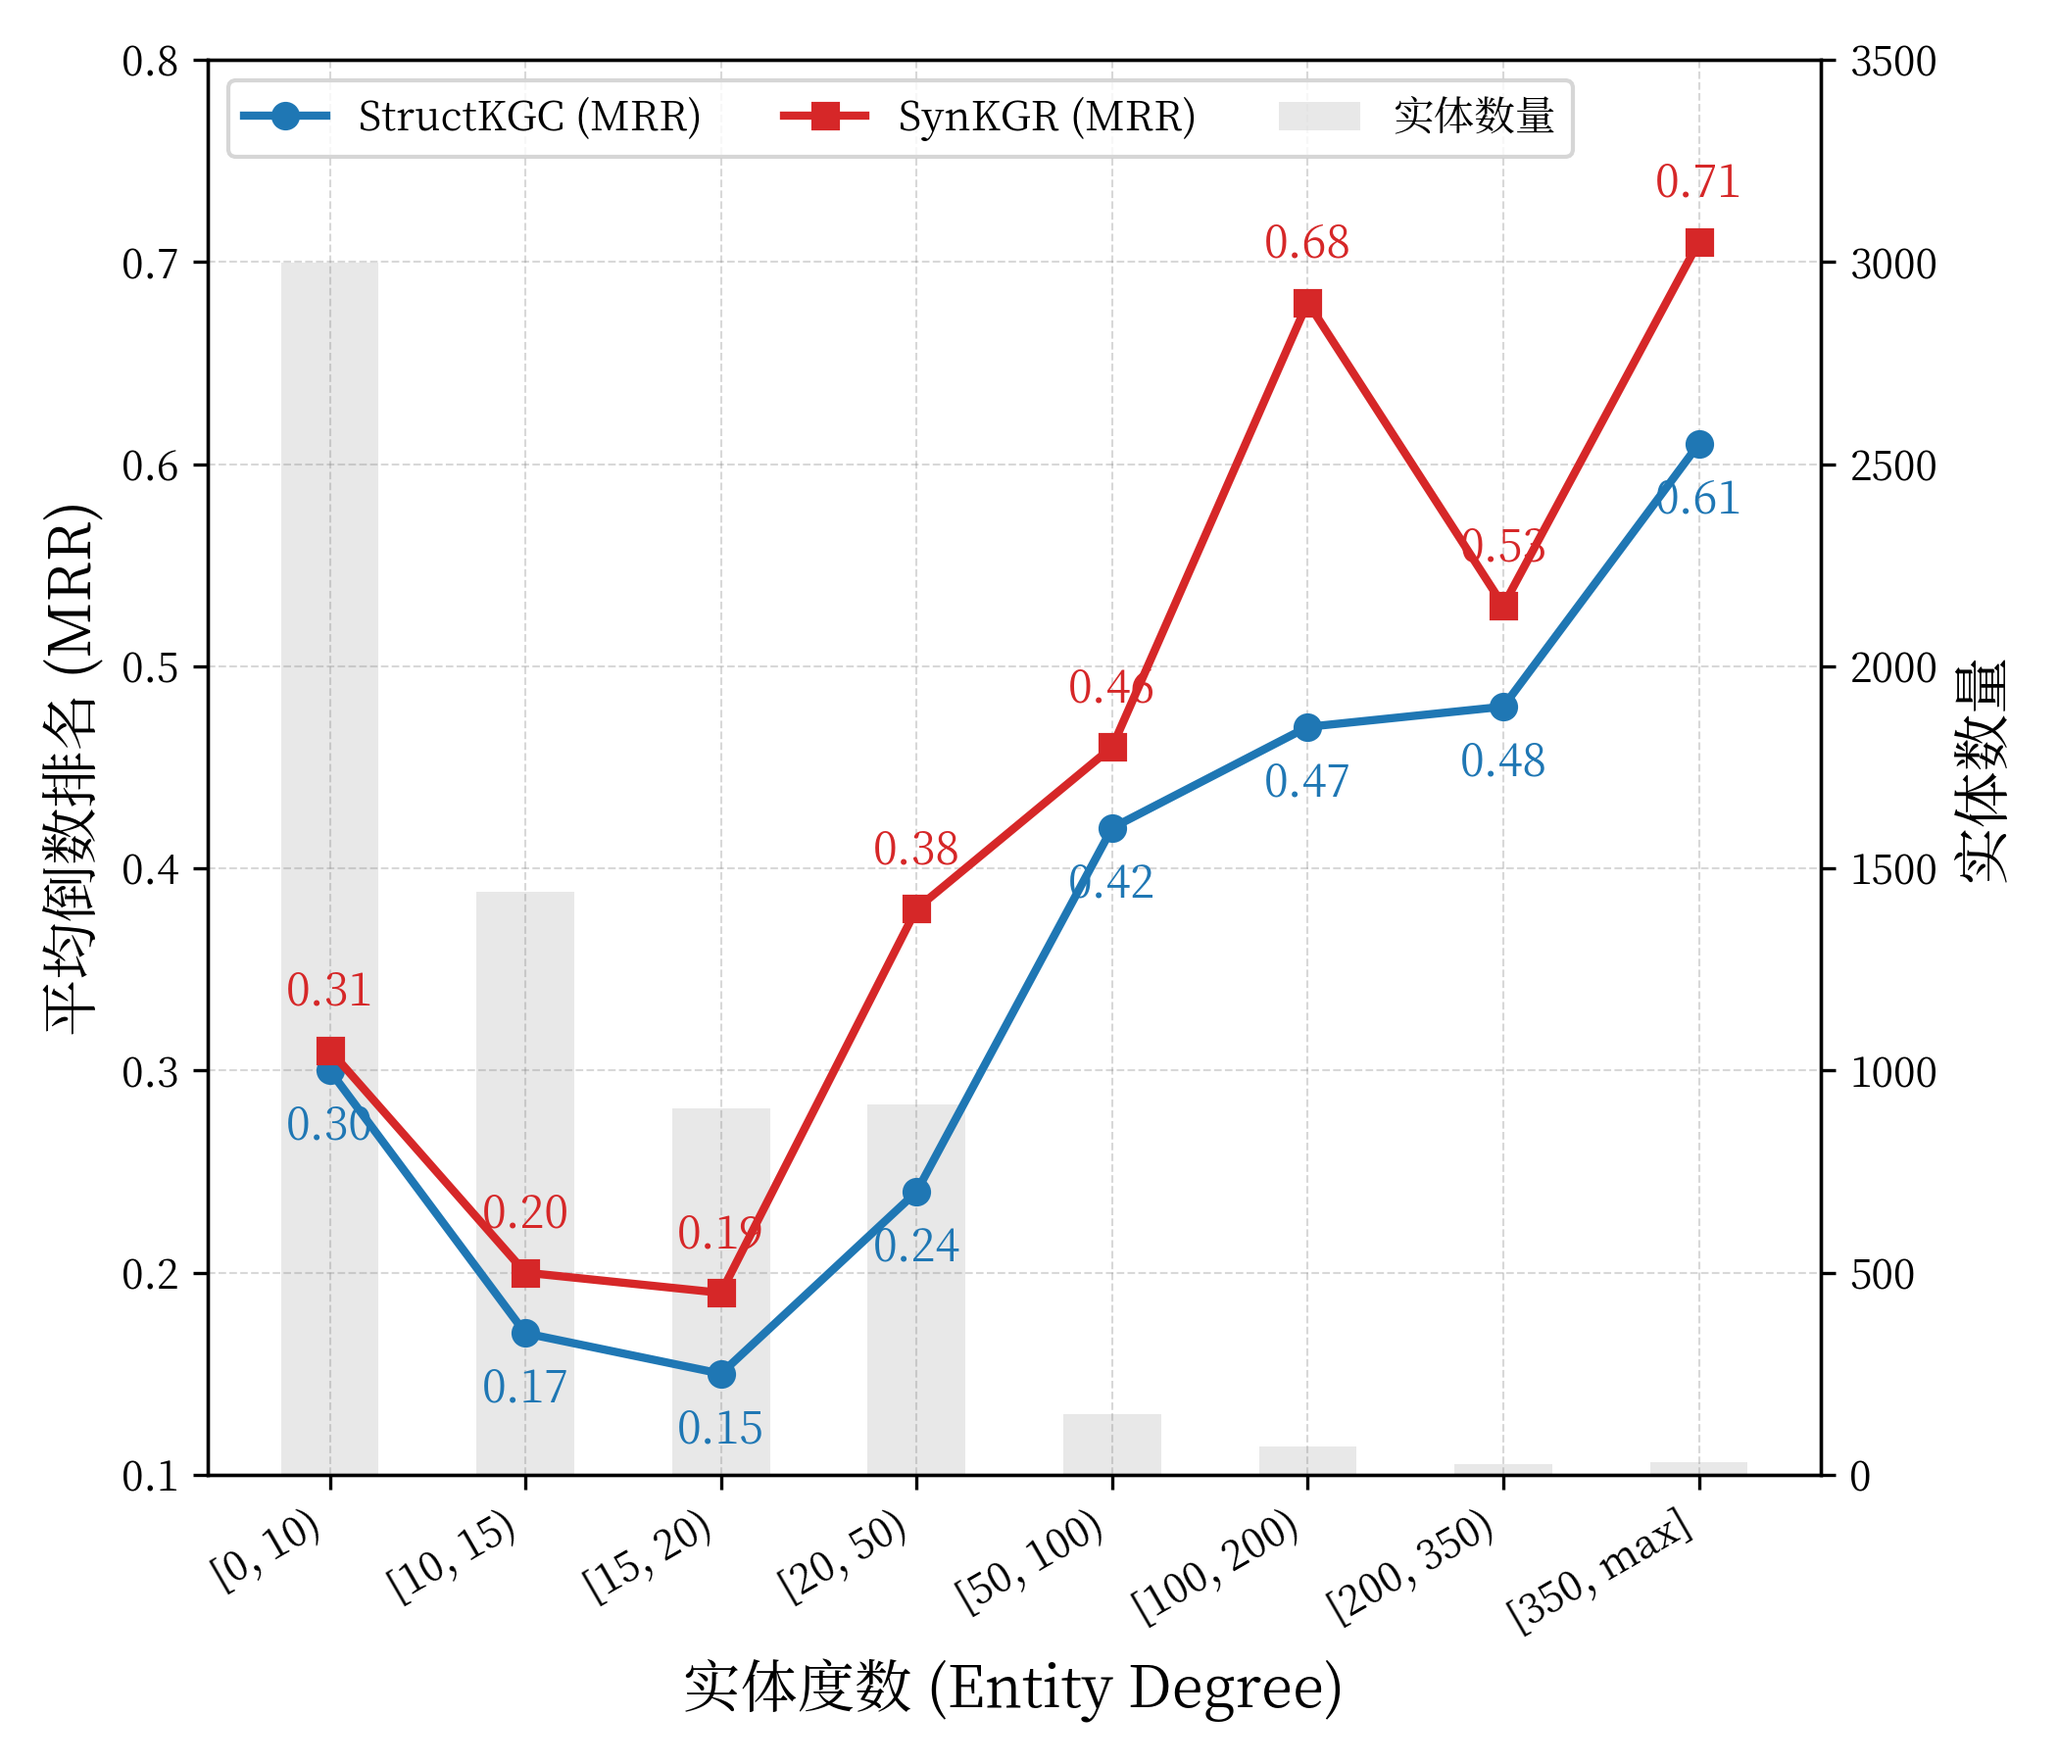
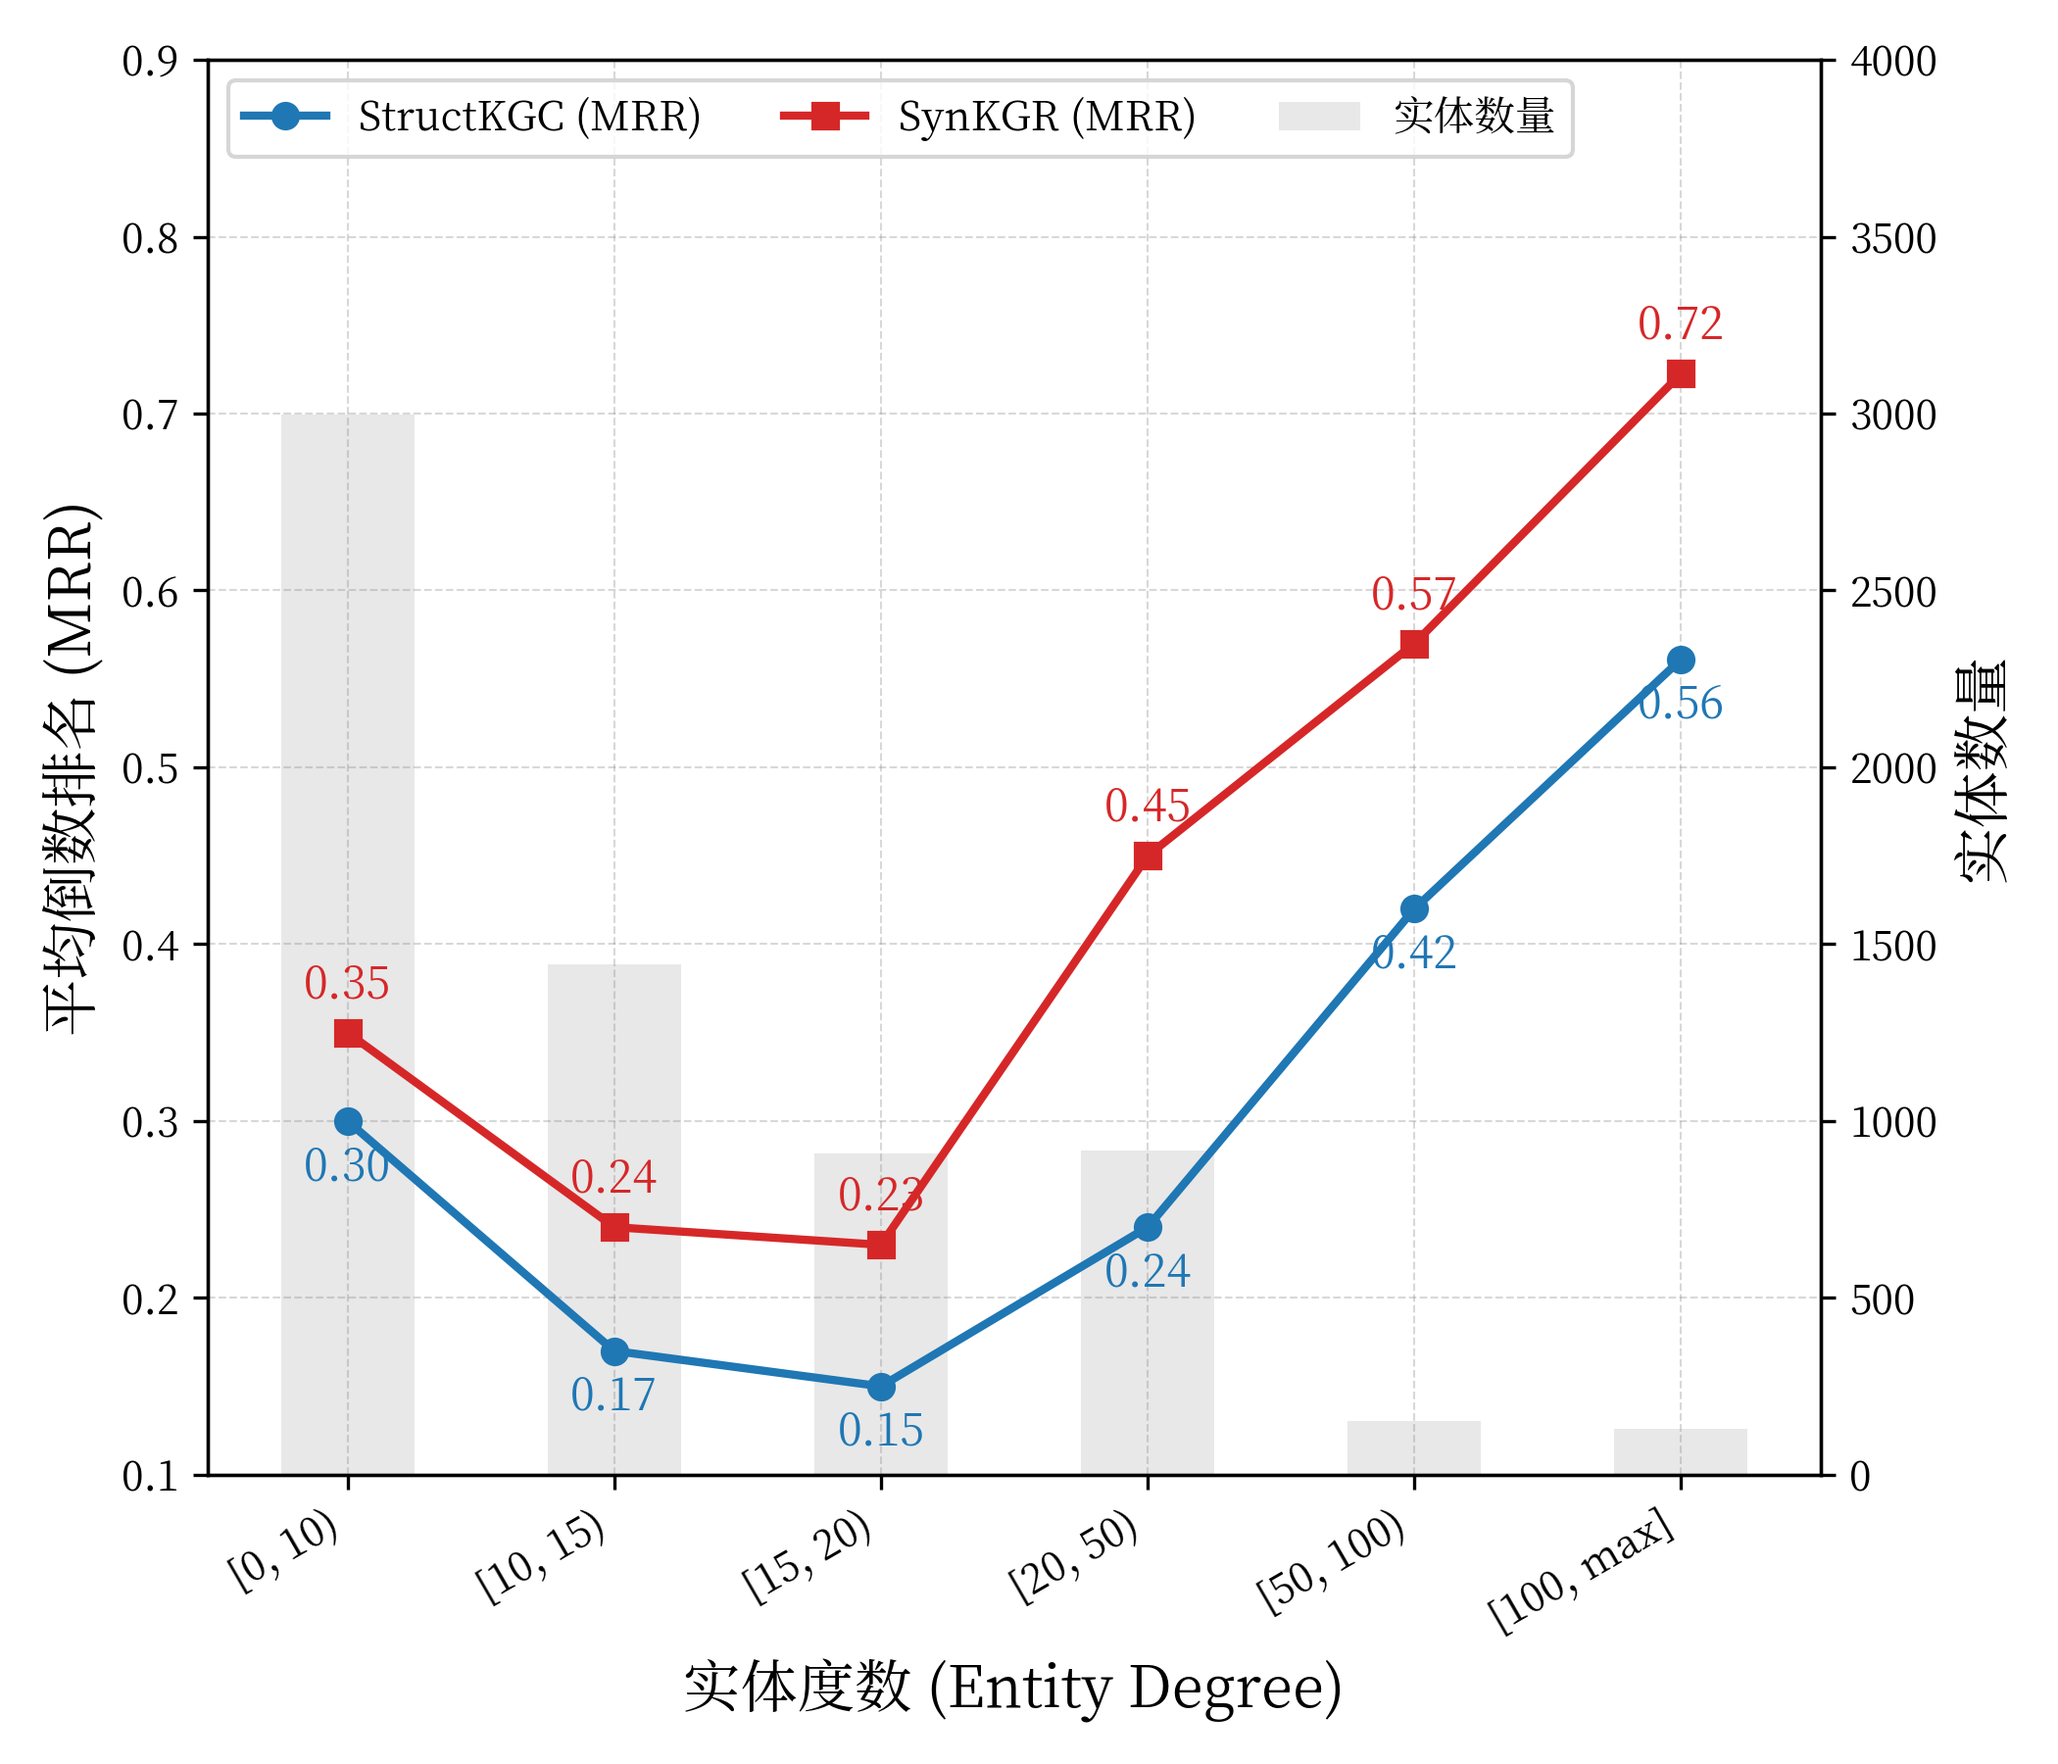
chore: test entity degree update
1. support auto-load params from checkpoints
2. update test result

diff --git a/loss_restraint_KGE_model/plot_entity_type_test.py b/loss_restraint_KGE_model/plot_entity_type_test.py
@@ -2,8 +2,7 @@
 # 使用:
 # python loss_restraint_KGE_model/plot_entity_type_test.py
 
-# Entity performance: [0.31, 0.20, 0.19, 0.38, 0.46, 0.68, 0.53, 0.71]
-
+# StructKGC 的结果如下：
 # ---------------------------------------------------------------------------------------------------------
 # Degree Range    | Samples    | Entities(Uniq)  | MRR      | Hits@1   | Hits@10
 # ---------------------------------------------------------------------------------------------------------
@@ -20,9 +19,10 @@
 # Total Unique Entities Evaluated:     6544
 # ====================================================================================================
 
-# [4163, 2426, 1763, 2514, 977, 921, 741, 2947]
-# [2998, 1443, 907, 916, 151, 70, 27, 32]
-# [0.30, 0.17, 0.15, 0.24, 0.42, 0.47, 0.48, 0.61]
+# SynKGR 的结果如下：
+# [4163, 2426, 1763, 2514, 977, 921, 741, 2947] # 没有去重的样本数量
+# [2998, 1443, 907, 916, 151, 70, 27, 32] # 经过去重后的实体数量
+# [0.35, 0.24, 0.23, 0.45, 0.57, 0.75, 0.58, 0.75]
 
 import matplotlib.pyplot as plt
 import os
@@ -43,24 +43,24 @@ else:
 rcParams['axes.unicode_minus'] = False
 
 # --- 2. 准备数据 ---
-# 原始8区间: [0,10) [10,15) [15,20) [20,50) [50,100) [100,200) [200,350) [350,max]
 _raw_samples = [4163, 2426, 1763, 2514, 977, 921, 741, 2947]
-_raw_entities = [2998, 1443, 907, 916, 151, 70, 27, 32]
-_raw_synkgr = [0.31, 0.20, 0.19, 0.38, 0.46, 0.68, 0.53, 0.71]
+_raw_synkgr = [0.35, 0.24, 0.23, 0.45, 0.57, 0.75, 0.58, 0.75]
 _raw_structkgc = [0.30, 0.17, 0.15, 0.24, 0.42, 0.47, 0.48, 0.61]
+
+_raw_entities = [2998, 1443, 907, 916, 151, 70, 27, 32]
+
+_merge_groups = [
+    ([0], '[0, 10)'),
+    ([1], '[10, 15)'),
+    ([2], '[15, 20)'),
+    ([3], '[20, 50)'),
+    ([4], '[50, 100)'),
+    ([5, 6, 7], '[100, max]'),
+]
 
 def _wmrr(indices, vals, weights):
     w = sum(weights[i] for i in indices)
     return sum(vals[i] * weights[i] for i in indices) / w
-
-# 合并区间: [0,50) 合并稀疏端, 其余保持
-_merge_groups = [
-    ([0, 1, 2, 3], '[0, 50)'),
-    ([4], '[50, 100)'),
-    ([5], '[100, 200)'),
-    ([6], '[200, 350)'),
-    ([7], '[350, max)'),
-]
 
 degree_of_entities = [label for _, label in _merge_groups]
 samples = [sum(_raw_entities[i] for i in idx) for idx, _ in _merge_groups]
@@ -96,10 +96,10 @@ for x, y in zip(degree_of_entities, synkgr_mrr):
 # 设置标签和范围
 ax1.set_xlabel('实体度数 (Entity Degree)', fontsize=14)
 ax1.set_ylabel('平均倒数排名 (MRR)', fontsize=14)
-ax1.set_ylim(0.1, 0.8)
+ax1.set_ylim(0.1, 0.9)
 
 ax2.set_ylabel('实体数量', fontsize=14)
-ax2.set_ylim(0, 3500)
+ax2.set_ylim(0, 4000)
 
 # 网格线
 ax1.grid(visible=True, which='major', linestyle='--', linewidth=0.5, color='gray', alpha=0.3, zorder=0)

diff --git a/loss_restraint_KGE_model/run.py b/loss_restraint_KGE_model/run.py
@@ -1038,6 +1038,23 @@ if __name__ == '__main__':
 
     args = parser.parse_args()
 
+    if args.restore:
+        ckpt_path = os.path.join(args.save_dir, args.name + '.pth')
+        if os.path.isfile(ckpt_path):
+            ckpt_args = torch.load(ckpt_path, map_location='cpu').get('args', {})
+            restore_only_modes = {'overall', 'test_relation_type', 'test_entity_degree', 'case_study'}
+            if args.mode in restore_only_modes:
+                for k, v in ckpt_args.items():
+                    if not hasattr(args, k):
+                        setattr(args, k, v)
+                    elif k == 'name' or k == 'mode' or k == 'restore' or k == 'save_dir':
+                        continue
+                    else:
+                        setattr(args, k, v)
+                print(f'\n[Auto-restore] Parameters loaded from checkpoint: {ckpt_path}')
+        else:
+            print(f'Warning: Checkpoint not found at {ckpt_path}')
+
     if not args.restore:
         args.name = args.name + '_' + args.time_string
 
